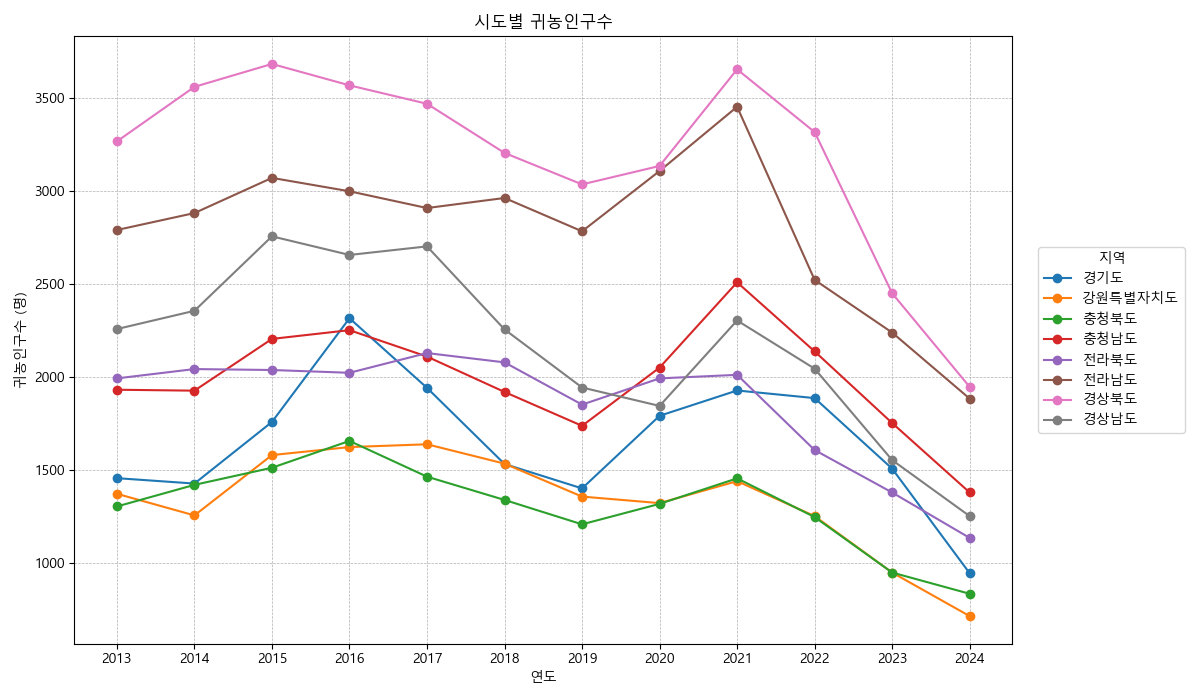
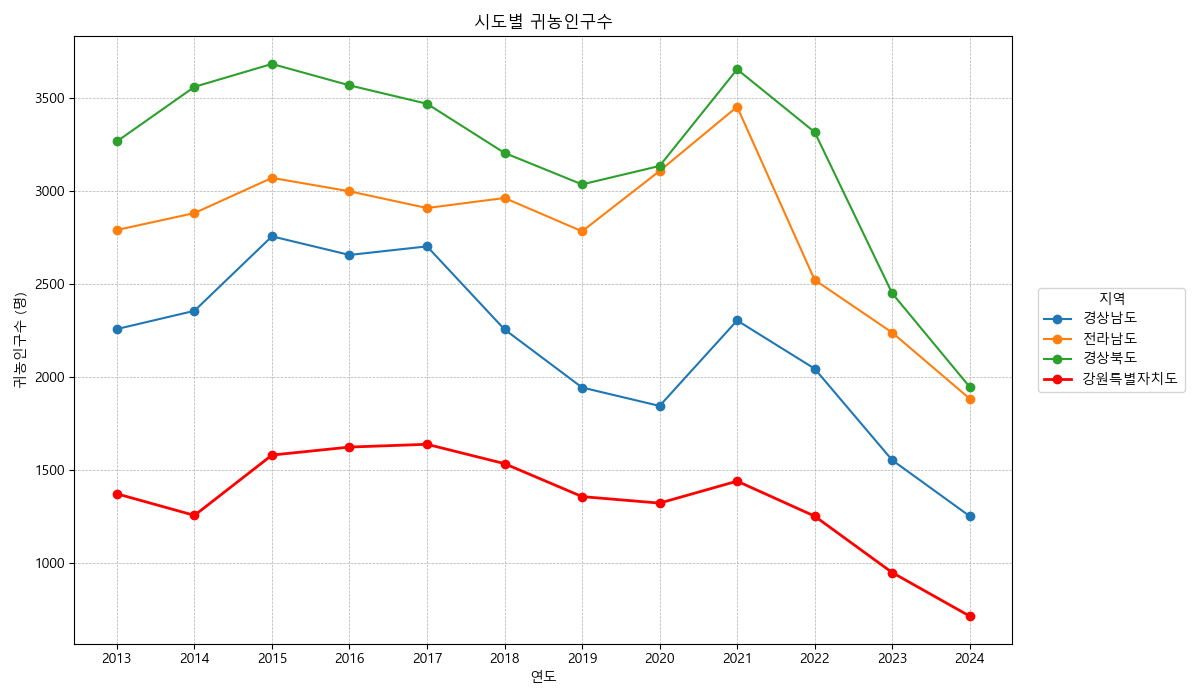
상위3지역+강원도 전처리

diff --git a/Processing_population/Processing_pop.py b/Processing_population/Processing_pop.py
@@ -32,17 +32,29 @@ df_trans = df[year_list].T
 # 데이터숫자로 변환, 안하면 그래프가 겹쳐서 그려지지 않았습니다 
 df_trans = df_trans.replace(',', '', regex=True).apply(pd.to_numeric)
 
-# 평균 계산후 너무적은 지역배제 
+# 상위 3지역 + 강원특별자치도만 남게 정리 
 region_mean = df_trans.mean(axis=0)
-target_regions = region_mean[region_mean >= 1000].index
+region_mean = region_mean.sort_values()
+
+target_regions = region_mean.index[-3:].tolist()
+spec_region = '강원특별자치도'
+if spec_region in df_trans.columns:
+    if spec_region not in target_regions:
+        target_regions.append(spec_region)
+else:
+    print(f"{spec_region} : 데이터가 없습니다.")
 
 df_filtered = df_trans[target_regions]
 
 # 꺾은선 그래프 시각화
 plt.figure(figsize=(12, 7))
 
+# 강원도 강조 
 for region in df_filtered.columns:
-    plt.plot(year_list, df_filtered[region], marker='o', linewidth=1.5, label=region)
+    if region == '강원특별자치도':
+        plt.plot(year_list, df_filtered[region], marker='o', linewidth=2, color='red', label=region)
+    else:
+        plt.plot(year_list, df_filtered[region], marker='o', linewidth=1.5, label=region)
 
 plt.title('시도별 귀농인구수')
 plt.xlabel('연도')
@@ -51,4 +63,4 @@ plt.grid(True, linestyle='--', linewidth=0.5)
 plt.legend(loc="center left", bbox_to_anchor=(1.02, 0.5), title="지역")
 plt.tight_layout()
 plt.savefig("Processing_population/시도별 귀농인구수.png")
-plt.show()
+#plt.show()
